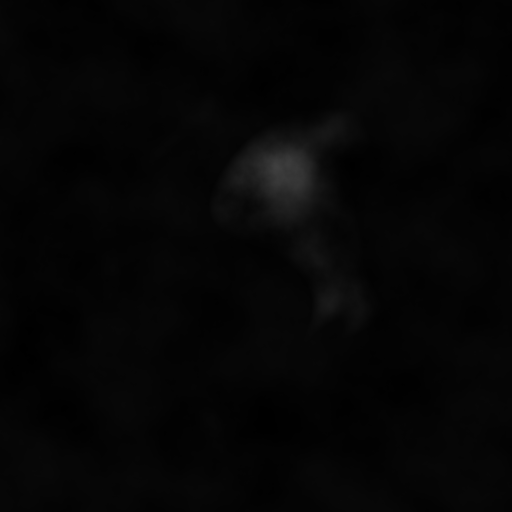
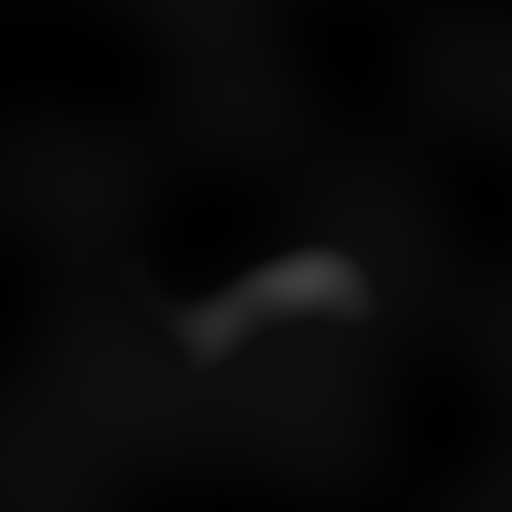
QOL
- Fixed compile errors
- Got rid of the old vertexattribute type on CreateVertexBufffer.

Changed region(s): [[0.3438, 0.5, 0.6875, 0.6875], [0.4688, 0.2812, 0.625, 0.4062]]

diff --git a/terrain_generation_tool/code/3Dterrain.cs b/terrain_generation_tool/code/3Dterrain.cs
@@ -1,6 +1,7 @@
 using System;
 using System.Collections.Generic;
 using System.Linq;
+using System.Runtime.InteropServices;
 using Sandbox;
 
 namespace Sturnus.TerrainGenerationTool.ThreeDimensionalTerrain;
@@ -9,9 +10,10 @@ namespace Sturnus.TerrainGenerationTool.ThreeDimensionalTerrain;
 		private VoxelStorage _storage;
 		private SceneObject _sceneObject;
 
+		[StructLayout( LayoutKind.Sequential )]
 		public struct Vertex
 		{
-			public Vector3 Position;
+			[VertexLayout.Position] public Vector3 Position;
 
 			public Vertex( Vector3 position )
 			{
@@ -92,13 +94,8 @@ namespace Sturnus.TerrainGenerationTool.ThreeDimensionalTerrain;
 				indices.AddRange( generated.Indices );
 			}
 
-			// Define VertexAttribute array for positions
-			VertexAttribute[] vertexAttributes = vertices
-				.Select( v => new VertexAttribute( VertexAttributeType.Position, VertexAttributeFormat.Float32 ) )
-				.ToArray();
-
-			// Explicitly specify VertexAttribute type for the vertex buffer
-			mesh.CreateVertexBuffer<VertexAttribute>( vertexAttributes );
+			// Populate the vertex buffer with the actual vertex data
+			mesh.CreateVertexBuffer( vertices.Count, vertices.Select( v => new Vertex( v ) ).ToArray() );
 
 			// Populate the index buffer
 			mesh.SetIndexBufferData( indices.ToArray() );

diff --git a/terrain_generation_tool/Libraries/sturnus.terraingenerationtool/Editor/TerrainGenerationTool.cs b/terrain_generation_tool/Libraries/sturnus.terraingenerationtool/Editor/TerrainGenerationTool.cs
@@ -89,9 +89,9 @@ public class TerrainGenerationTool : Widget
 	float[,] _splatmap;
 
 	Texture _preview_image_texture;
-	Editor.TextureEditor.Preview PreviewImage;
+	Editor.TextureWidget PreviewImage;
 	Texture _preview_splatmap_texture;
-	Editor.TextureEditor.Preview PreviewSplatmap;
+	Editor.TextureWidget PreviewSplatmap;
 
 	SegmentedControl ShapeArray;
 	SegmentedControl CategoryArray;
@@ -514,12 +514,12 @@ public class TerrainGenerationTool : Widget
 
 		var LayoutRow = Layout.AddRow( 1 );
 		//var PreviewLabel = Layout.Add( new Label( "Preview" ) ); //Will attempt to get this working in a future update.
-		var _image_preview = new Editor.TextureEditor.Preview( this );
+		var _image_preview = new Editor.TextureWidget();
 		_image_preview.Texture = _preview_image_texture;
 		_image_preview.Size = new Vector2( 512, 512 );
 		PreviewImage = LayoutRow.Add( _image_preview, 50 );
 
-		var _splatmap_preview = new Editor.TextureEditor.Preview( this );
+		var _splatmap_preview = new Editor.TextureWidget();
 		_splatmap_preview.Texture = _preview_splatmap_texture;
 		_splatmap_preview.Size = new Vector2( 512, 512 );
 		PreviewSplatmap = LayoutRow.Add( _splatmap_preview, 50 );
